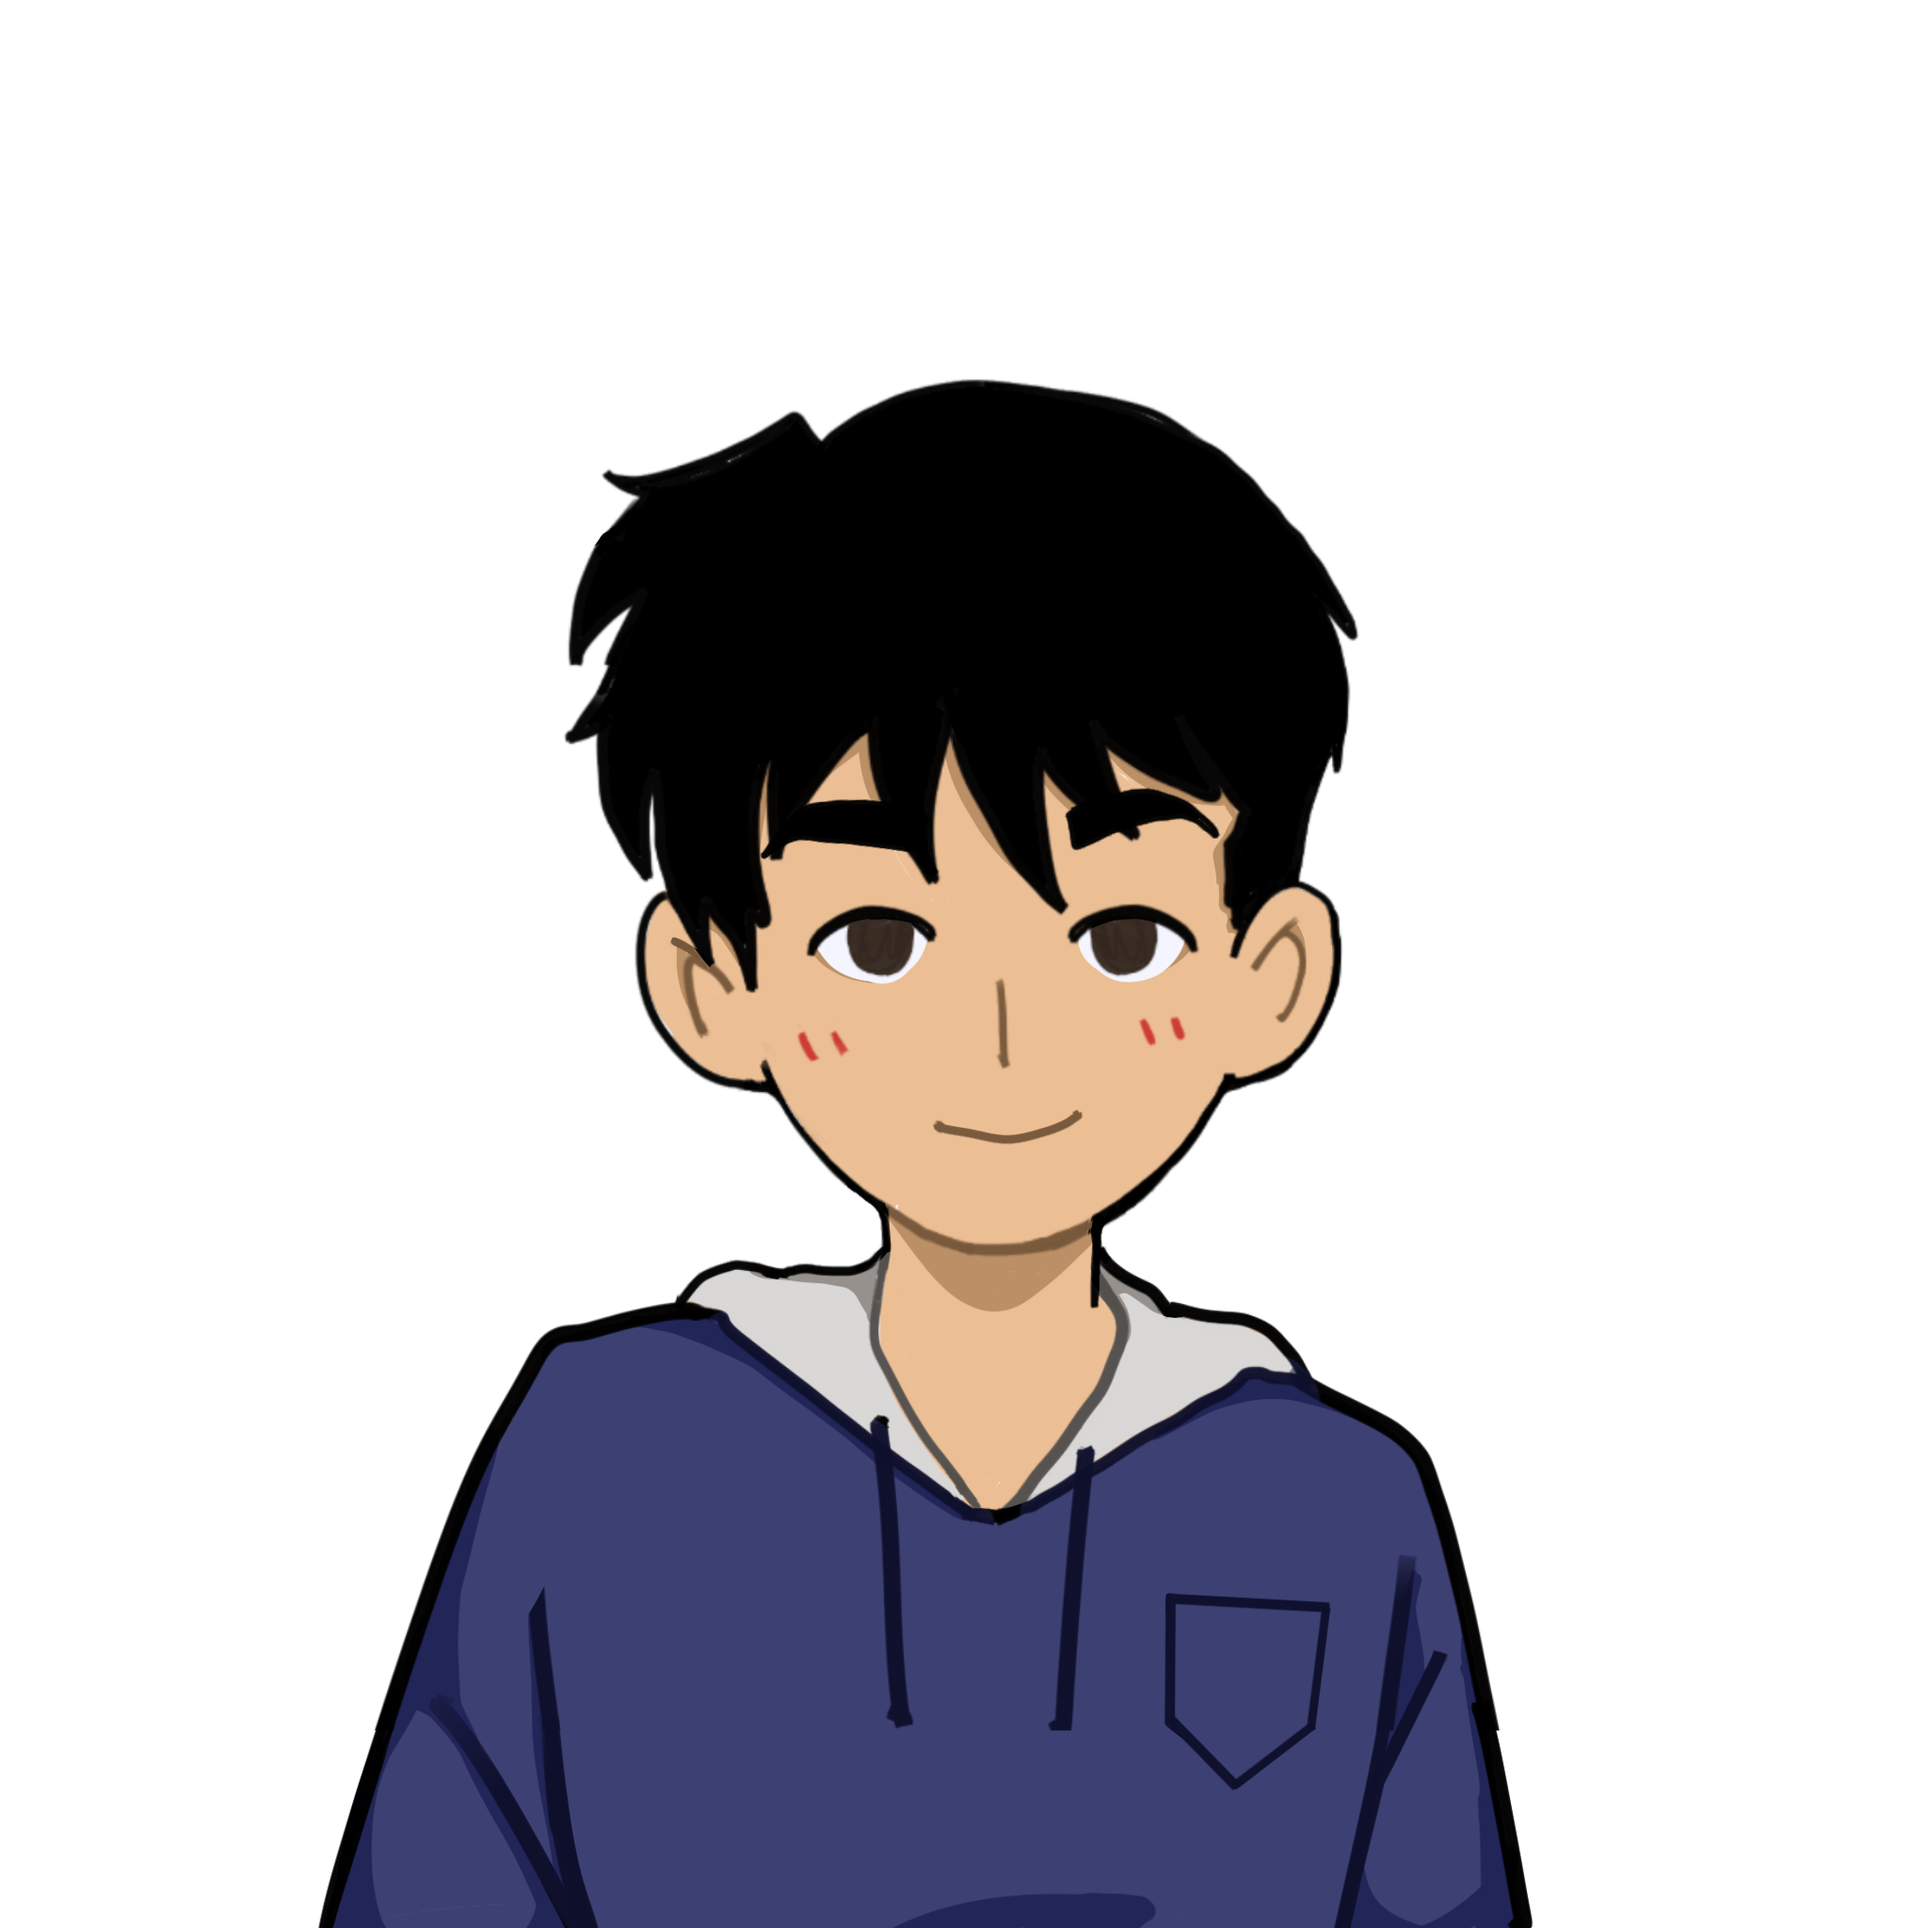
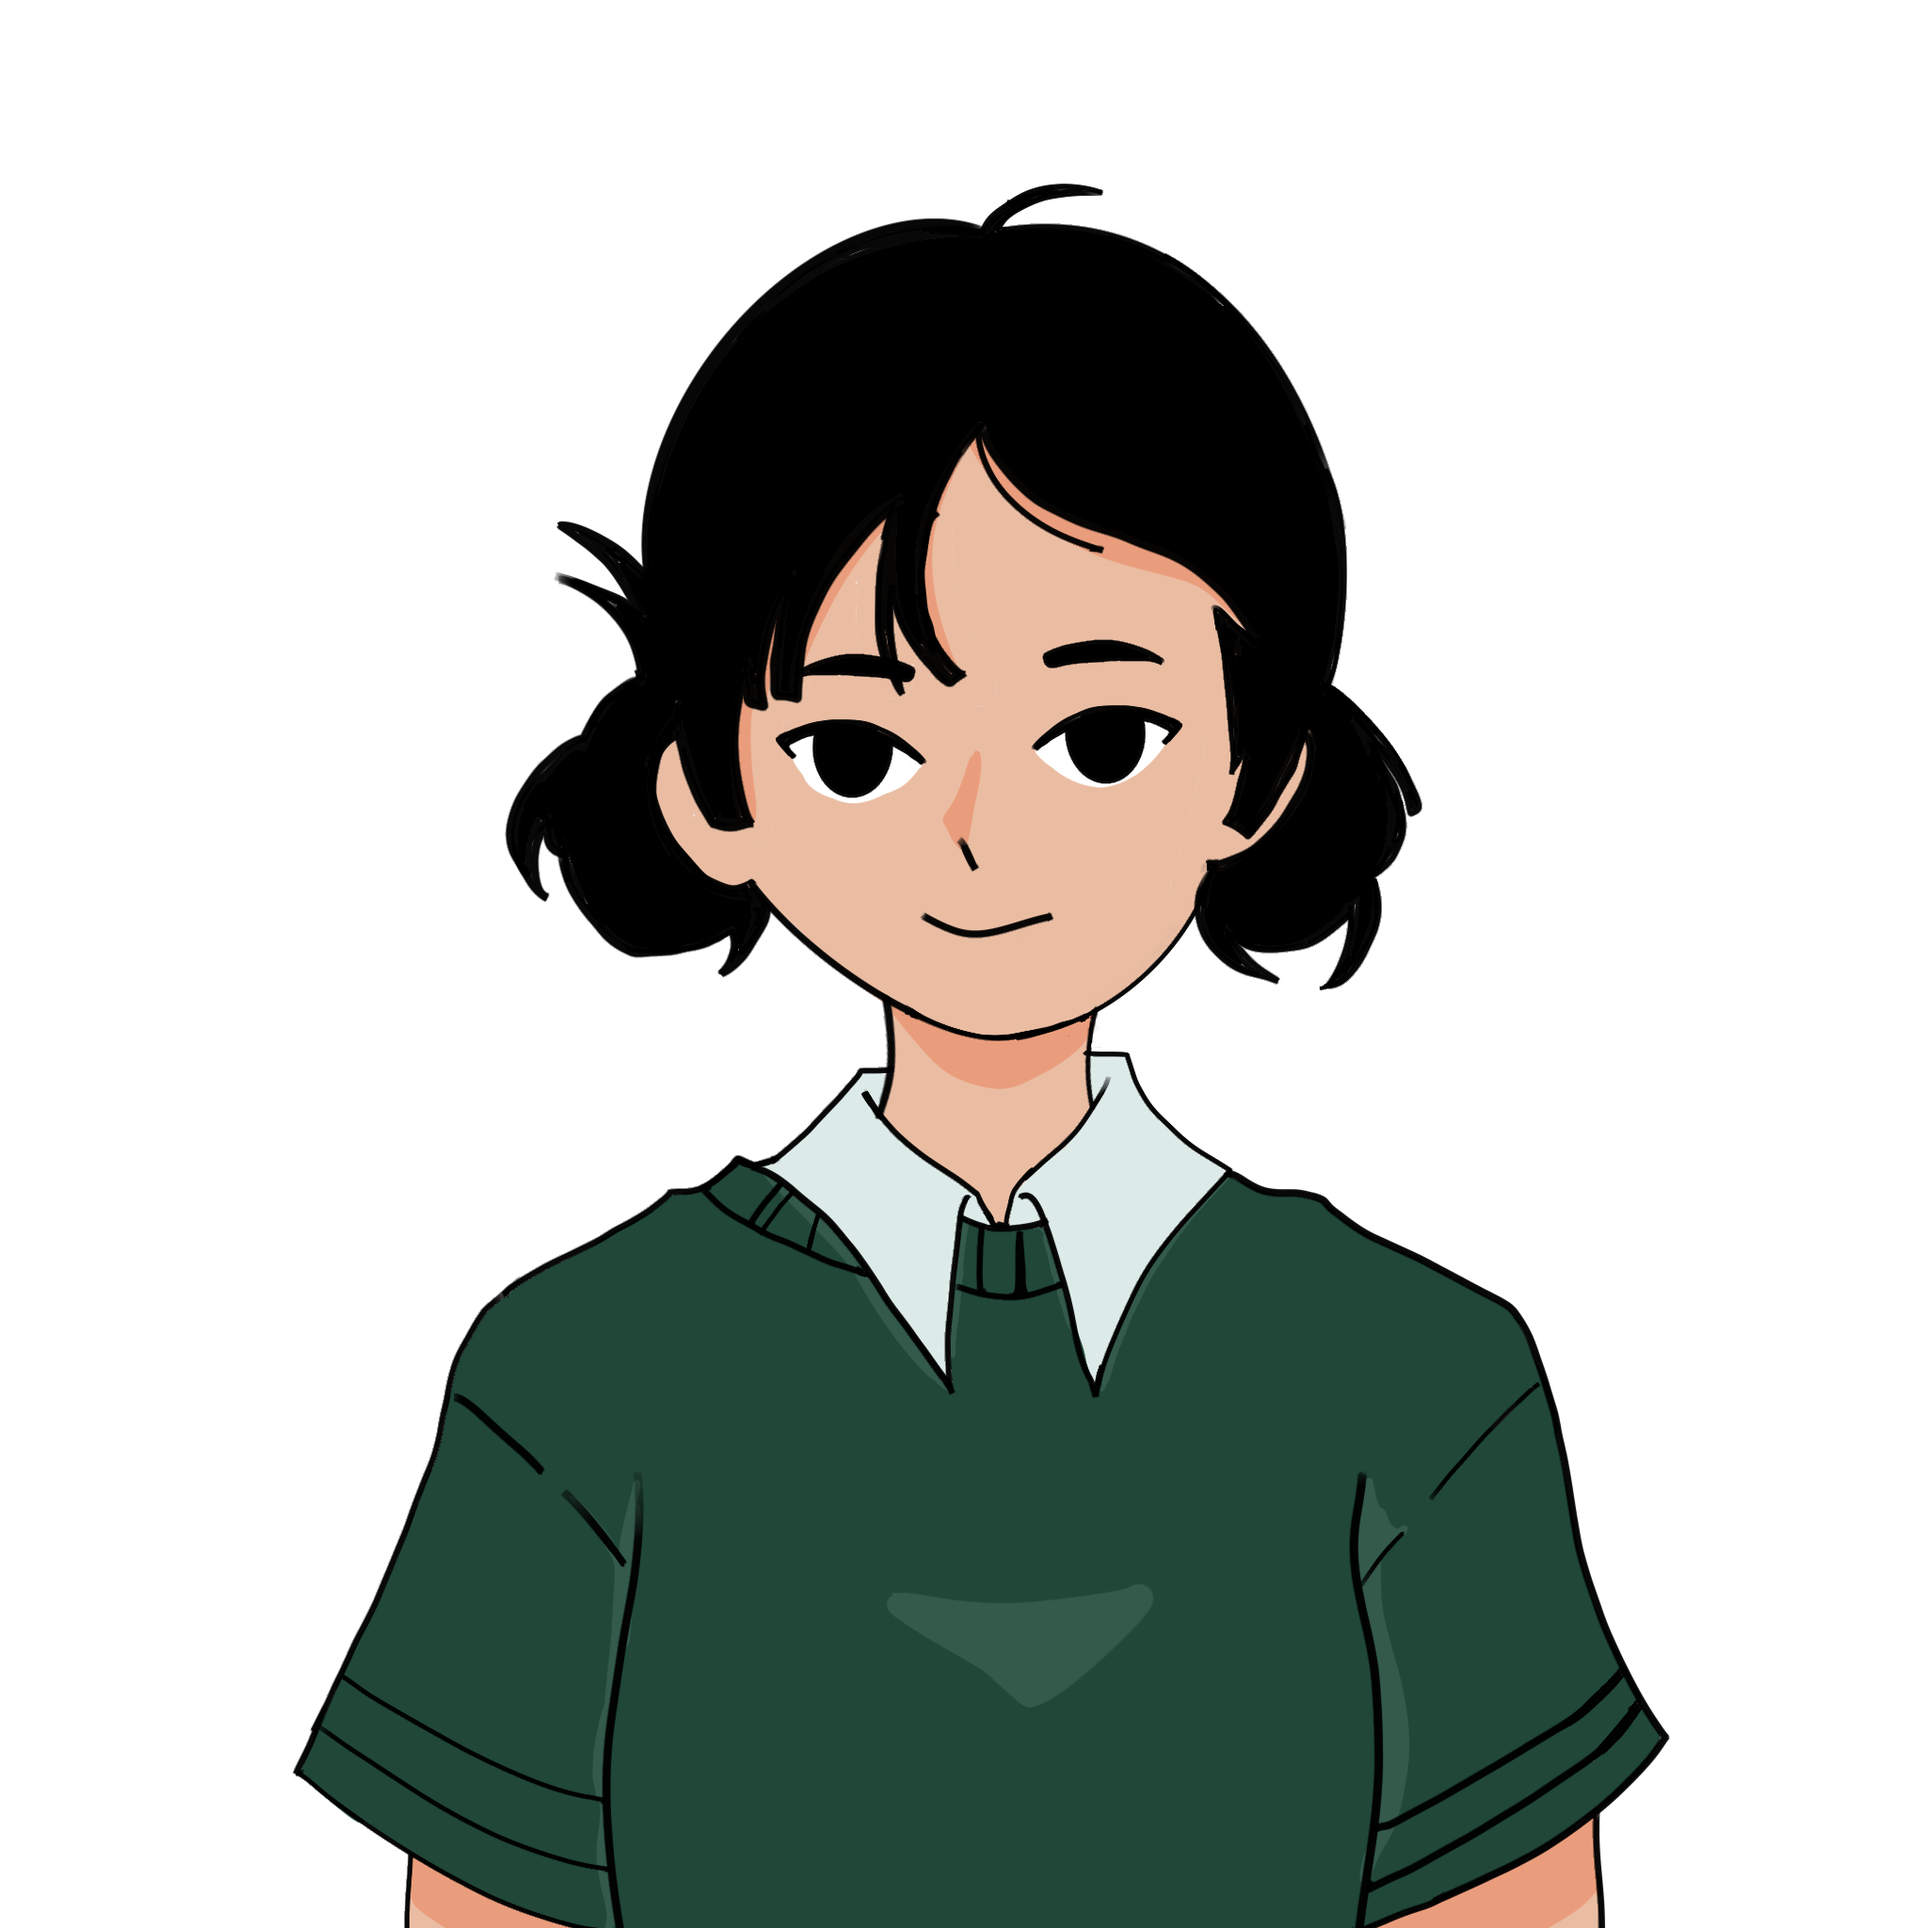
ma pull ako

diff --git a/app/lib/features/dashboard/data/dashboard_user_data.dart b/app/lib/features/dashboard/data/dashboard_user_data.dart
@@ -48,27 +48,27 @@ class DashboardUserData {
 
   List<BadgeData> get badges => [
     BadgeData(
-      icon: '*',
+      image: 'assets/badges/first_step.png',
       label: 'First Step',
       earned: scenariosCompleted > 0,
     ),
     BadgeData(
-      icon: 'F',
+      image: 'assets/badges/streak.png',
       label: '5-Day\nStreak',
       earned: currentStreak >= 5,
     ),
     BadgeData(
-      icon: 'T',
+      image: 'assets/badges/half_way.png',
       label: 'Half Way!',
       earned: overallProgress >= 0.5,
     ),
     BadgeData(
-      icon: '!',
+      image: 'assets/badges/quick_thinker.png',
       label: 'Quick\nThinker',
       earned: scenariosCompleted >= 3,
     ),
     BadgeData(
-      icon: 'A',
+      image: 'assets/badges/sharpshooter.png',
       label: 'Sharpshooter',
       earned: overallProgress >= 1,
     ),
@@ -122,12 +122,12 @@ class AssessmentScoreData {
 
 class BadgeData {
   const BadgeData({
-    required this.icon,
+    required this.image,
     required this.label,
     required this.earned,
   });
 
-  final String icon;
+  final String image;
   final String label;
   final bool earned;
 }

diff --git a/app/lib/features/dashboard/screen/progress_screen.dart b/app/lib/features/dashboard/screen/progress_screen.dart
@@ -515,13 +515,11 @@ class _BadgeTile extends StatelessWidget {
         ),
         child: Column(
           children: [
-            Text(
-              badge.icon,
-              style: const TextStyle(
-                fontSize: 24,
-                fontWeight: FontWeight.w800,
-                color: Color(0xFF0B28D9),
-              ),
+            Image.asset(
+              badge.image,
+              width: 40,
+              height: 40,
+              fit: BoxFit.contain,
             ),
             const SizedBox(height: 6),
             Text(

diff --git a/app/lib/features/emotiondetection/themed_scenario/api/scenario_api.dart b/app/lib/features/emotiondetection/themed_scenario/api/scenario_api.dart
@@ -18,7 +18,7 @@ import 'package:http/http.dart' as http;
 /// `/scenario/start|step|step_audio` with whatever `theme`/`scenario_key`
 /// it's given.
 class ScenarioApi {
-  static const String baseUrl = "http://10.225.52.109:5000";
+  static const String baseUrl = "http://10.37.94.225:5000";
 
   /// Without a timeout, an unreachable [baseUrl] (server not running, IP
   /// changed, device on a different network) just hangs indefinitely with
